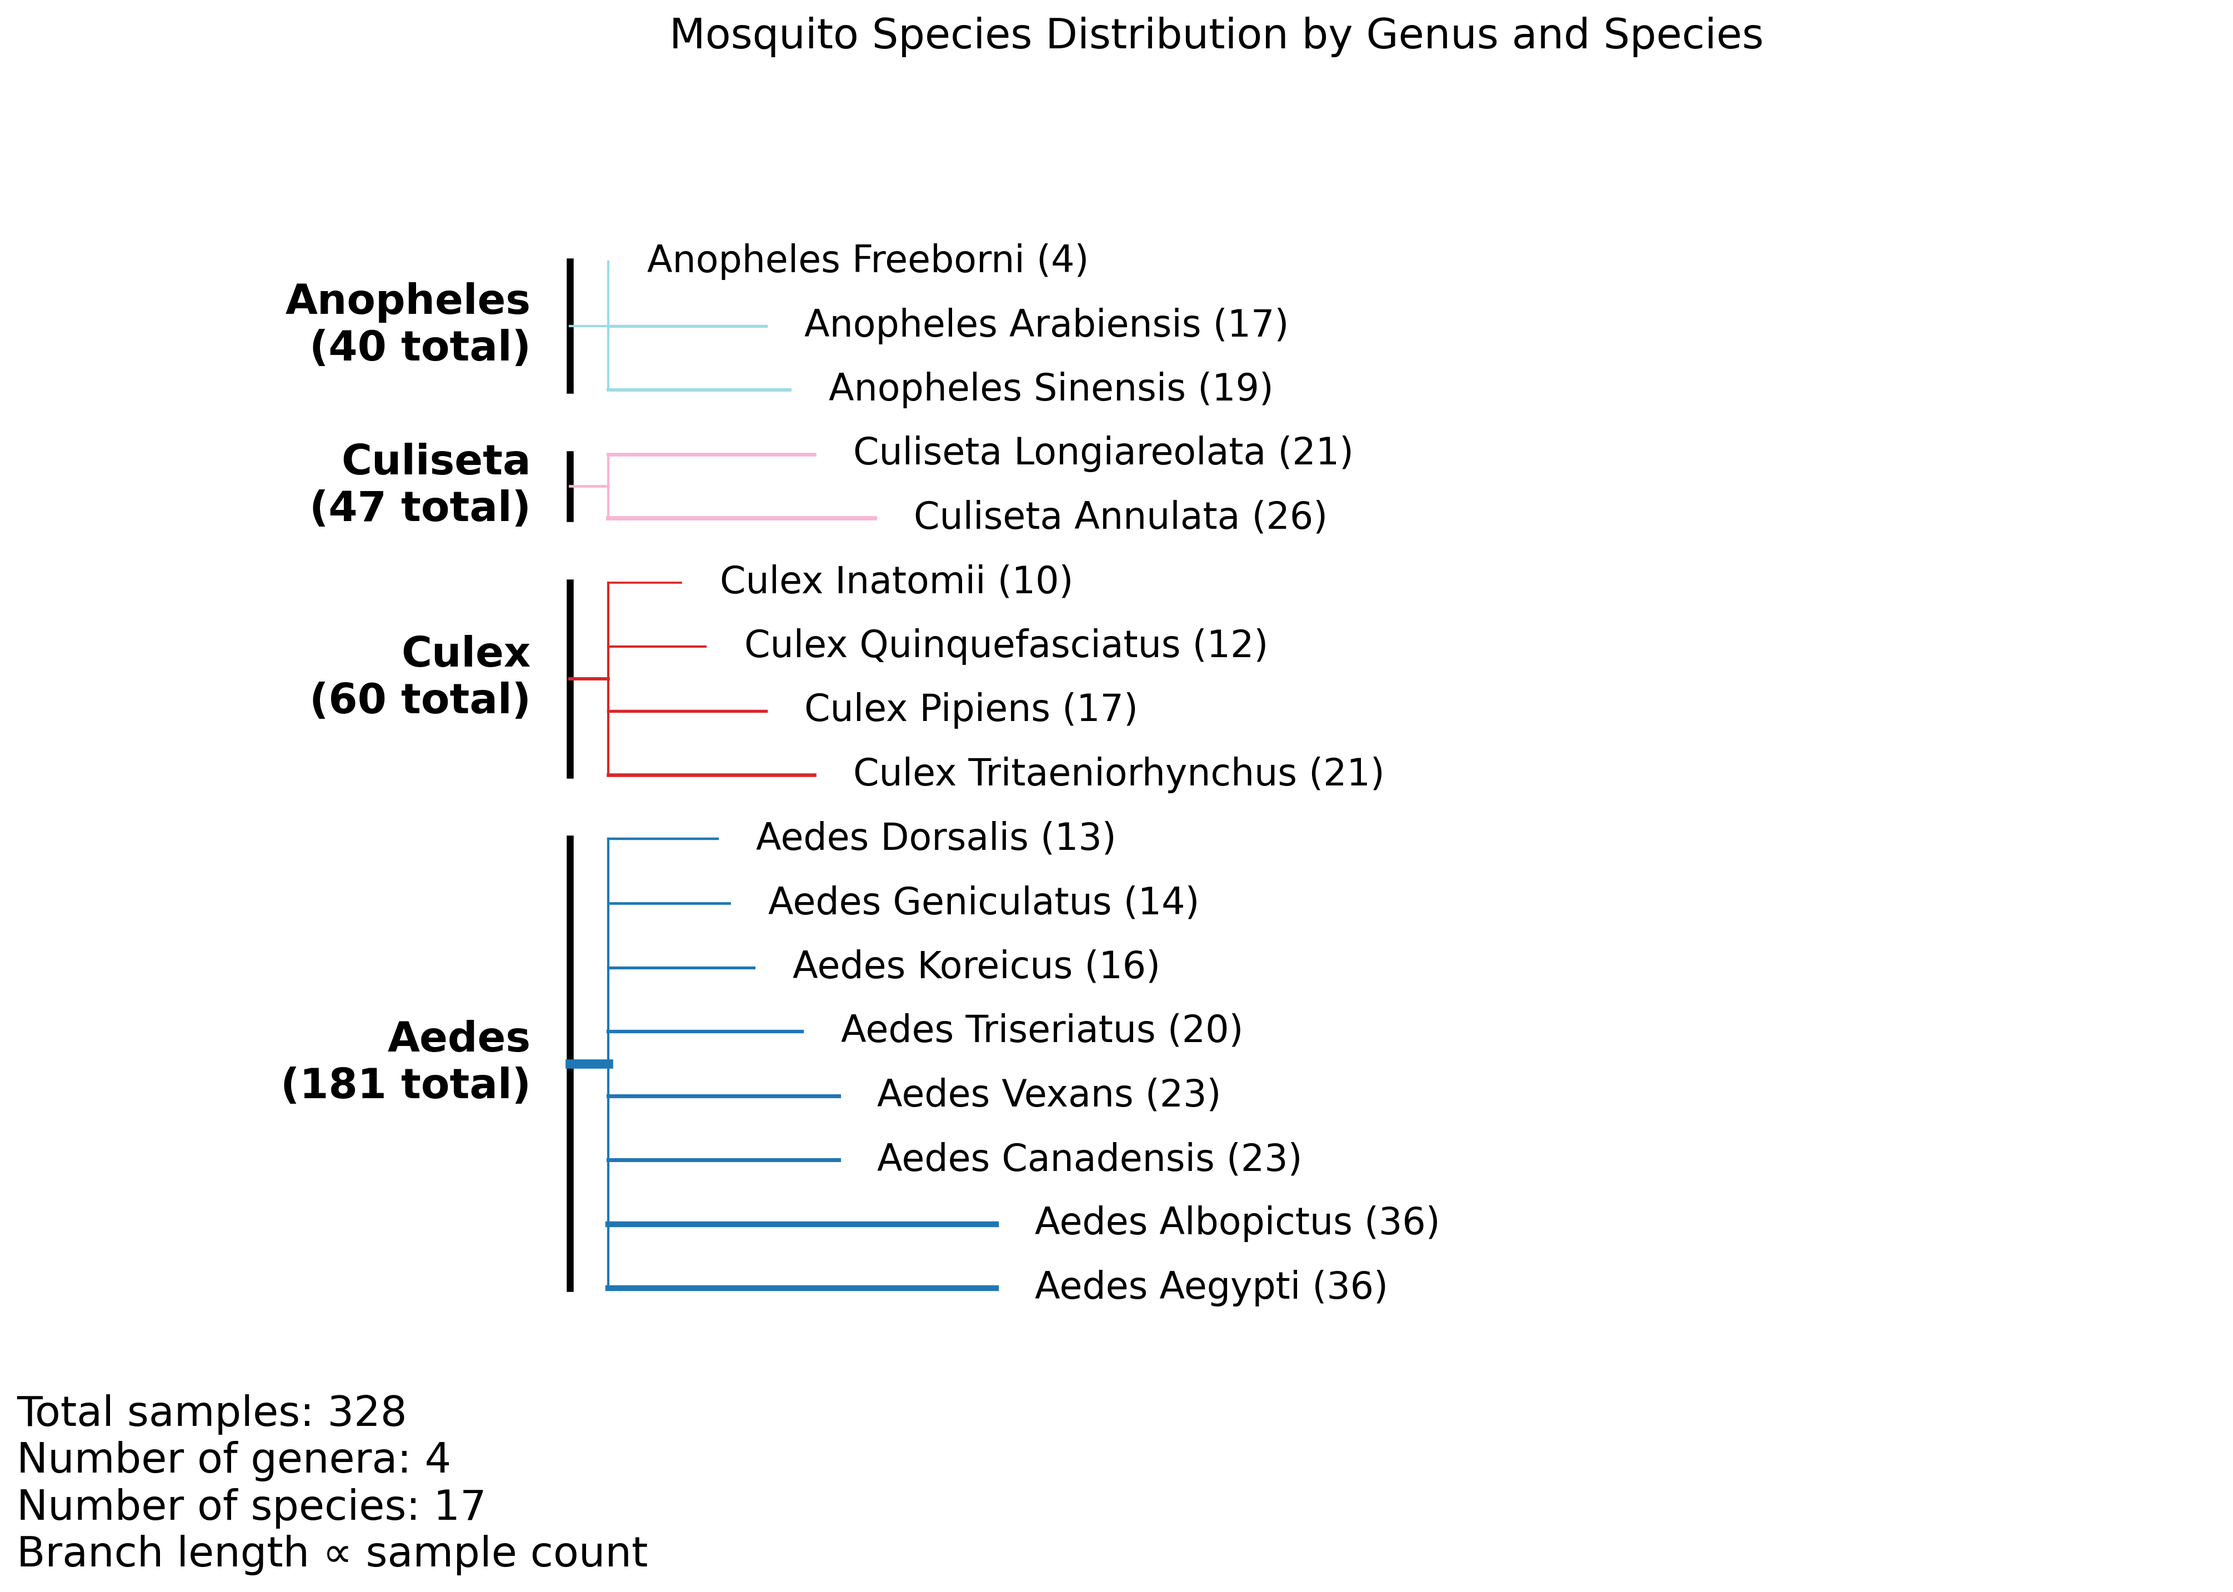
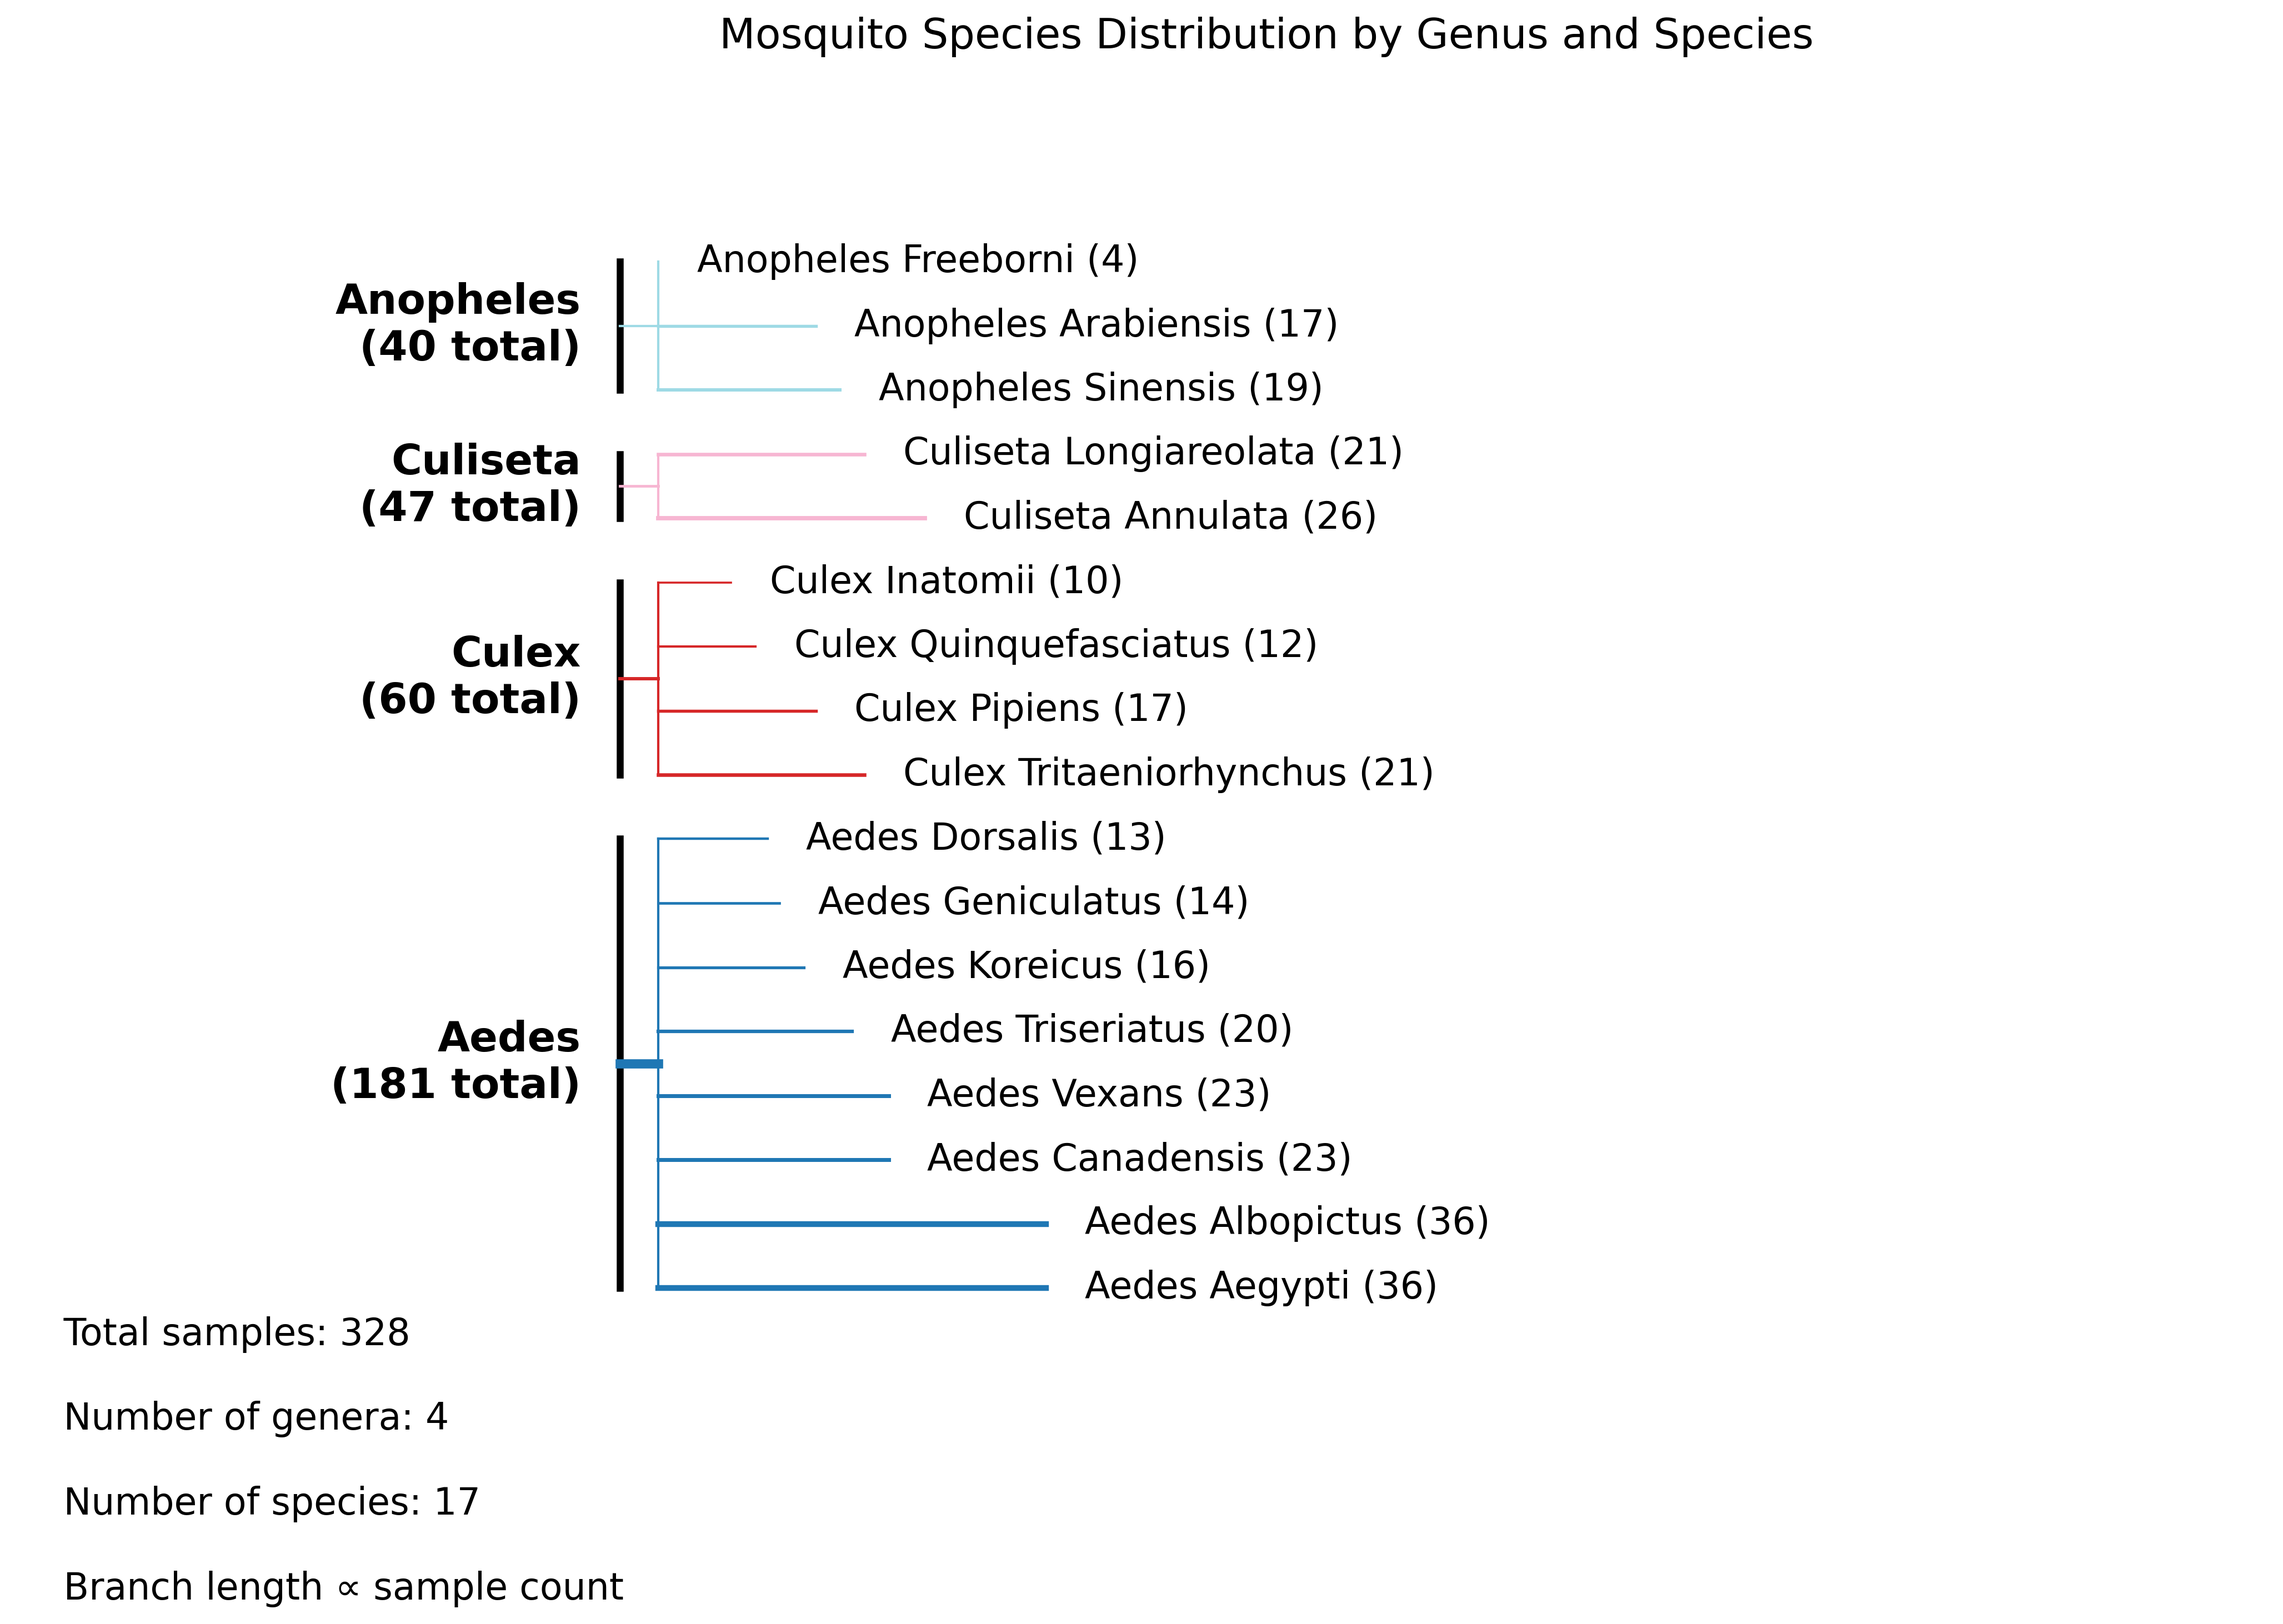
Update example tutorials for clarity and consistency in installation instructions and output descriptions.

diff --git a/docs/en/examples/tutorial_part_4_mosquito_classification.py b/docs/en/examples/tutorial_part_4_mosquito_classification.py
@@ -1,3 +1,4 @@
+# %%
 """
 # Classifying Mosquito Species
 
@@ -14,6 +15,10 @@ This guide will cover:
 - **Batch Evaluation**: How to measure the model's accuracy on a set of test images.
 - **Reporting**: How to generate and visualize a comprehensive performance report.
 """
+
+# %%
+# Install the `culicidaelab` library if not already installed
+# # !pip install -q culicidaelab
 
 # %% [markdown]
 # ## 1. Initialization and Setup
@@ -61,7 +66,7 @@ print("Model loaded successfully.")
 
 # %%
 species_map = settings.species_config.species_map
-print(f"--- The model can recognize {len(species_map)} species ---")
+print(f"--- The model can recognize {len(species_map)} classes ---")
 # Print the first 5 for brevity
 for idx, name in list(species_map.items())[:5]:
     print(f"  Class Index {idx}: {name}")
@@ -186,8 +191,9 @@ plt.show()
 # %%
 # Let's evaluate the first 30 images from the test set for this example
 num_samples_to_evaluate = 30
-batch_images = [sample["image"] for sample in classification_test_data[:num_samples_to_evaluate]]
-ground_truths = [sample["label"] for sample in classification_test_data[:num_samples_to_evaluate]]
+batch_samples = classification_test_data.select(range(num_samples_to_evaluate))
+batch_images = [sample["image"] for sample in batch_samples]
+ground_truths = [sample["label"] for sample in batch_samples]
 
 print(f"\n--- Evaluating a batch of {len(batch_images)} images ---")
 

diff --git a/docs/en/examples/tutorial_part_1_datasets_example.py b/docs/en/examples/tutorial_part_1_datasets_example.py
@@ -1,3 +1,4 @@
+# %%
 """
 # Managing and Loading Datasets
 
@@ -7,7 +8,7 @@ to interact with the datasets defined in the library's configuration.
 
 # %%
 # Install the `culicidaelab` library if not already installed
-# !pip install -q culicidaelab
+# # !pip install -q culicidaelab
 
 # %%
 # Third-party imports
@@ -308,16 +309,17 @@ def create_tree_visualization(dataset_info, figsize=(15, 10), output_file="tree_
     plt.suptitle("Mosquito Species Distribution by Genus and Species", y=0.95, fontsize=18)
     # Add total samples count and legend
     total_samples = sum(label_stats.values())
-    text_img = f"""Total samples: {total_samples}\n
+    text_img = f"""
+    Total samples: {total_samples}\n
     Number of genera: {len(genus_groups)}\n
     Number of species: {len(label_stats)}\n
     Branch length ∝ sample count"""
     # Add text at the bottom of the figure
     plt.figtext(
-        0.02,
-        0.02,
+        0.0,
+        0.0,
         text_img,
-        fontsize=18,
+        fontsize=16,
     )
     # Save the plot
     plt.savefig(output_file, dpi=300, bbox_inches="tight")

diff --git a/docs/en/examples/tutorial_part_3_mosquito_segmentation.py b/docs/en/examples/tutorial_part_3_mosquito_segmentation.py
@@ -1,3 +1,4 @@
+# %%
 """
 # Mosquito Segmentation Tutorial
 
@@ -13,7 +14,7 @@ to perform mosquito segmentation on images. We'll cover:
 
 # %%
 # Install the `culicidaelab` library if not already installed
-# !pip install -q culicidaelab
+# # !pip install -q culicidaelab
 
 # %%
 # First, let's import the necessary libraries:
@@ -142,12 +143,12 @@ plt.tight_layout()
 plt.show()
 
 # %%
-metrics = segmenter.evaluate(mask_with_boxes, input_data=image)
+metrics = segmenter.evaluate(mask_with_boxes, input_data=image, detection_boxes=detections)
 print(metrics)
 
 # %%
 metrics_default = segmenter.evaluate(
     mask_with_boxes,
-    mask_with_boxes,
+    mask,
 )
 print(metrics_default)

diff --git a/docs/en/examples/tutorial_part_2_mosquito_detection.py b/docs/en/examples/tutorial_part_2_mosquito_detection.py
@@ -1,3 +1,4 @@
+# %%
 """
 # Mosquito Detection Tutorial
 
@@ -12,6 +13,10 @@ library to perform object detection on images. We will cover:
 - Running predictions on a batch of images
 
 """
+# %%
+# Install the `culicidaelab` library if not already installed
+# # !pip install -q culicidaelab
+
 # %% [markdown]
 # ## 1. Initialization
 #

diff --git a/docs/en/examples/tutorial_part_0_settings_example.py b/docs/en/examples/tutorial_part_0_settings_example.py
@@ -1,3 +1,4 @@
+# %%
 """
 # Understanding and Using the Settings
 
